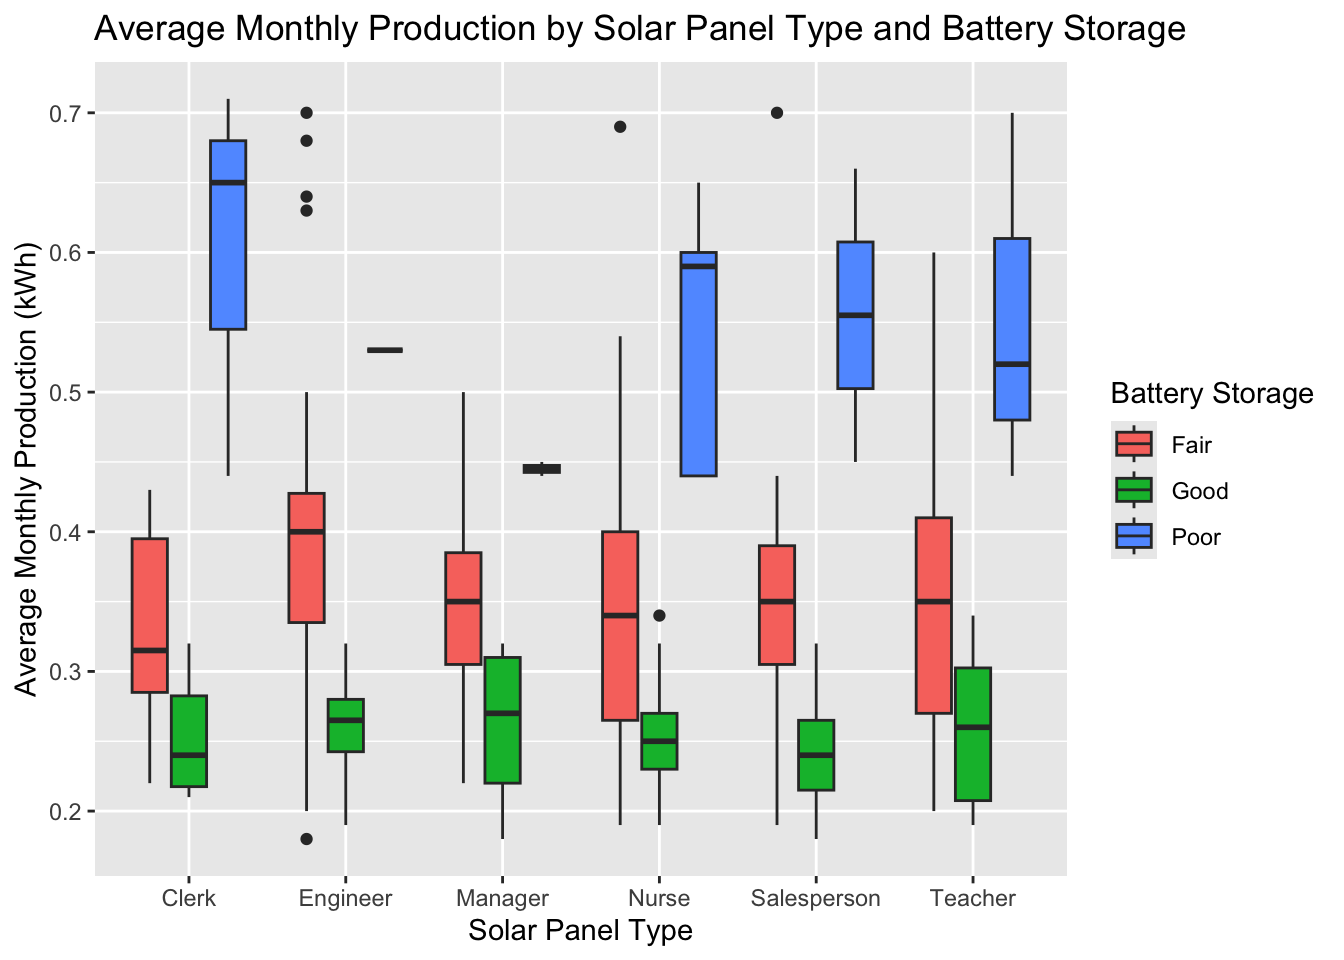
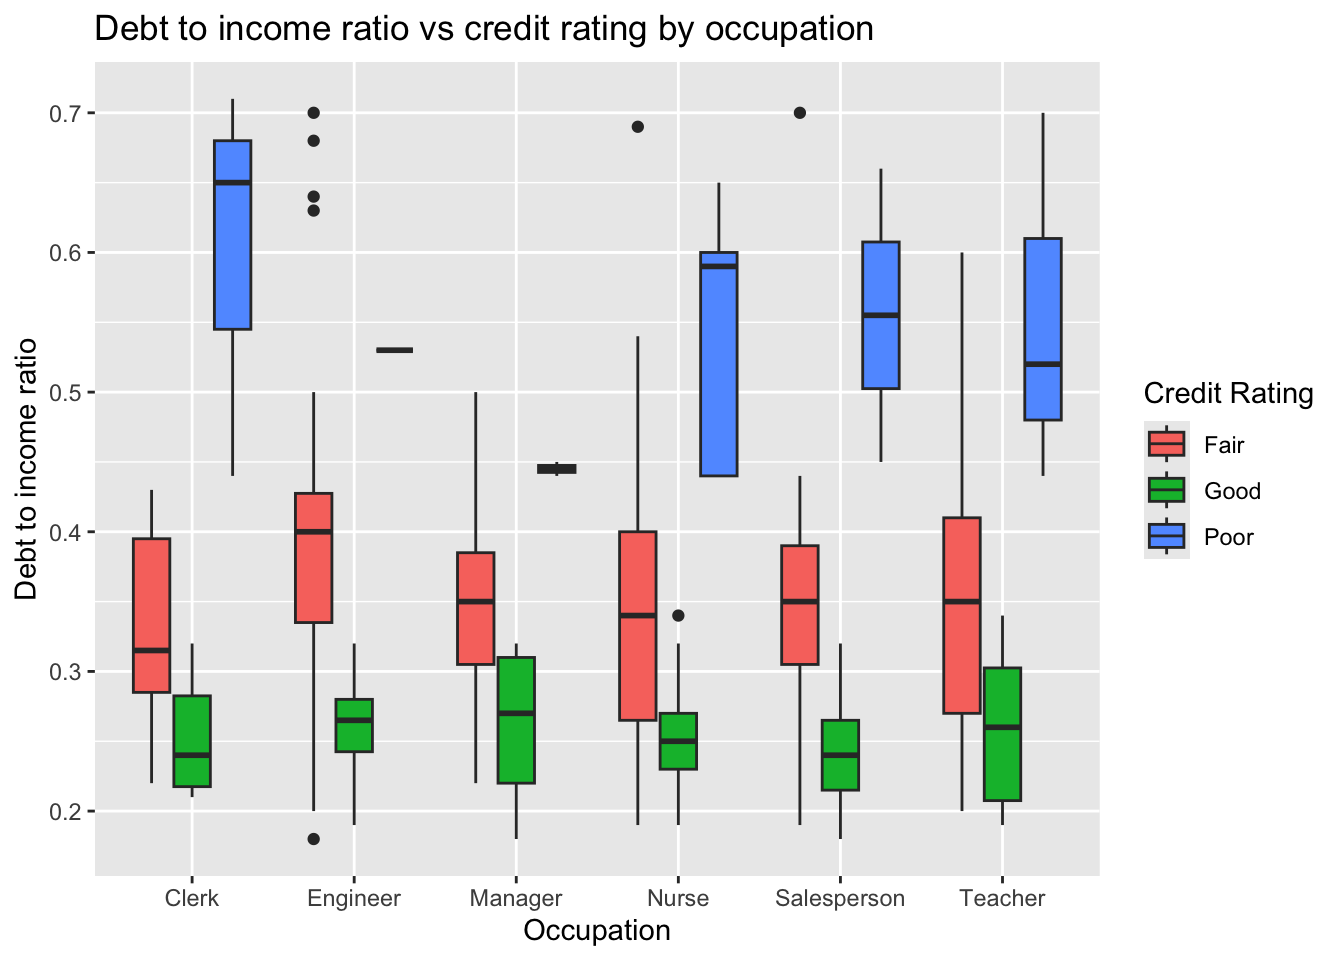
added poisson distr

diff --git a/index.html b/index.html
@@ -509,7 +509,7 @@ Figure&nbsp;1: Occupations Distribution
 <span id="cb7-2"><a href="#cb7-2"></a><span class="fu">ggplot</span>(my_data, <span class="fu">aes</span>(<span class="at">x =</span> debt_to_income_ratio, <span class="at">y =</span> credit_utilization_ratio)) <span class="sc">+</span></span>
 <span id="cb7-3"><a href="#cb7-3"></a>  <span class="fu">geom_point</span>() <span class="sc">+</span></span>
 <span id="cb7-4"><a href="#cb7-4"></a>  <span class="fu">geom_smooth</span>(<span class="at">method =</span> <span class="st">"lm"</span>, <span class="at">col =</span> <span class="st">"red"</span>) <span class="sc">+</span></span>
-<span id="cb7-5"><a href="#cb7-5"></a>  <span class="fu">labs</span>(<span class="at">title =</span> <span class="st">'Debt to Income Ratio  vs. Credit Utilization Ratio'</span>, <span class="at">x =</span> <span class="st">'Credit Utilization Ratio'</span>, <span class="at">y =</span> <span class="st">'Credit Utilization Ratio'</span>)</span></code><button title="Copy to Clipboard" class="code-copy-button"><i class="bi"></i></button></pre></div>
+<span id="cb7-5"><a href="#cb7-5"></a>  <span class="fu">labs</span>(<span class="at">title =</span> <span class="st">'Debt to Income Ratio  vs. Credit Utilization Ratio'</span>, <span class="at">x =</span> <span class="st">'Debt to Income Ratio'</span>, <span class="at">y =</span> <span class="st">'Credit Utilization Ratio'</span>)</span></code><button title="Copy to Clipboard" class="code-copy-button"><i class="bi"></i></button></pre></div>
 </details>
 <div class="cell-output-display">
 <div>
@@ -519,7 +519,7 @@ Figure&nbsp;1: Occupations Distribution
 </div>
 </div>
 </div>
-<p>By inspecting the scatter plot above, we see a weak linear relationship between debt to income ratio and credit utilization ratio. We can also find the correlation coefficient by using the R built in function <code>cor()</code> to examine the relationship between the two variables. For these two variables we find the correlation coefficient to be <code>0.2207823</code>, which supports the weak positive linear relationship that we see visually from the scatter plot. <br> What is being indicated by the red line is a linear regression model showing a general trend. The general trend is that as the debt to income ratio increases, the credit utilization ratio also increases slightly. This suggests that there are other factors that influence an individual’s credit utilization ratio besides their debt to income ratio. Overall, the positive linear correlation provides some information, but it also suggests that further analyses using other variables needs to be done to understand the factors involved.</p>
+<p>By inspecting the scatter plot above, we see a weak linear relationship between debt to income ratio and credit utilization ratio. We can also find the correlation coefficient by using the R built in function <code>cor()</code> to examine the relationship between the two variables. For these two variables we find the correlation coefficient to be 0.2207823, which supports the weak positive linear relationship that we see visually from the scatter plot. <br> What is being indicated by the red line is a linear regression model showing a general trend. The general trend is that as the debt to income ratio increases, the credit utilization ratio also increases slightly. This suggests that there are other factors that influence an individual’s credit utilization ratio besides their debt to income ratio. Overall, the positive linear correlation provides some information, but it also suggests that further analyses using other variables needs to be done to understand the factors involved.</p>
 </section>
 <section id="box-plot-of-debt-to-income-ratio-vs.-credit-utilization-ratio" class="level3" data-number="3.5">
 <h3 data-number="3.5" class="anchored" data-anchor-id="box-plot-of-debt-to-income-ratio-vs.-credit-utilization-ratio"><span class="header-section-number">3.5</span> Box plot of Debt to Income Ratio vs.&nbsp;Credit Utilization Ratio</h3>
@@ -529,7 +529,7 @@ Figure&nbsp;1: Occupations Distribution
 <div class="sourceCode cell-code" id="cb8"><pre class="sourceCode numberSource r number-lines code-with-copy"><code class="sourceCode r"><span id="cb8-1"><a href="#cb8-1"></a><span class="co"># Boxplot of Total Monthly Production by Solar Panel Type and Battery Storage</span></span>
 <span id="cb8-2"><a href="#cb8-2"></a><span class="fu">ggplot</span>(my_data, <span class="fu">aes</span>(<span class="at">x =</span> occupation, <span class="at">y =</span> debt_to_income_ratio, <span class="at">fill =</span> <span class="fu">as.factor</span>(credit_rating))) <span class="sc">+</span></span>
 <span id="cb8-3"><a href="#cb8-3"></a>  <span class="fu">geom_boxplot</span>() <span class="sc">+</span></span>
-<span id="cb8-4"><a href="#cb8-4"></a>  <span class="fu">labs</span>(<span class="at">title =</span> <span class="st">'Average Monthly Production by Solar Panel Type and Battery Storage'</span>, <span class="at">x =</span> <span class="st">'Solar Panel Type'</span>, <span class="at">y =</span> <span class="st">'Average Monthly Production (kWh)'</span>, <span class="at">fill =</span> <span class="st">'Battery Storage'</span>)</span></code><button title="Copy to Clipboard" class="code-copy-button"><i class="bi"></i></button></pre></div>
+<span id="cb8-4"><a href="#cb8-4"></a>  <span class="fu">labs</span>(<span class="at">title =</span> <span class="st">'Debt to income ratio vs credit rating by occupation'</span>, <span class="at">x =</span> <span class="st">'Occupation'</span>, <span class="at">y =</span> <span class="st">'Debt to income ratio'</span>, <span class="at">fill =</span> <span class="st">'Credit Rating'</span>)</span></code><button title="Copy to Clipboard" class="code-copy-button"><i class="bi"></i></button></pre></div>
 </details>
 <div class="cell-output-display">
 <div>
@@ -539,20 +539,66 @@ Figure&nbsp;1: Occupations Distribution
 </div>
 </div>
 </div>
+<p>For <code>fair credit ratings</code>, engineers generally have higher quartiles. This shows that they tend to have a higher debt to income ratio even when maintaining a fair credit rating.</p>
+<p>For <code>good credit ratings</code>, the median is fairly close between all occupations.</p>
+<p>For <code>poor credit ratings</code>, there is an insignificant number of engineers and managers. Clerks have a significanctly higher median debt to income ratio than all the other occupations.</p>
 </section>
 </section>
 <section id="statistical-inference" class="level2" data-number="4">
 <h2 data-number="4" class="anchored" data-anchor-id="statistical-inference"><span class="header-section-number">4</span> Statistical Inference</h2>
-<p>This section is for statistical inference.</p>
-<section id="interval-estimation" class="level3" data-number="4.1">
-<h3 data-number="4.1" class="anchored" data-anchor-id="interval-estimation"><span class="header-section-number">4.1</span> Interval Estimation</h3>
+<section id="estimation" class="level3" data-number="4.1">
+<h3 data-number="4.1" class="anchored" data-anchor-id="estimation"><span class="header-section-number">4.1</span> Estimation</h3>
 <div class="cell">
 <details class="code-fold">
 <summary>Code</summary>
-<div class="sourceCode cell-code" id="cb9"><pre class="sourceCode numberSource r number-lines code-with-copy"><code class="sourceCode r"><span id="cb9-1"><a href="#cb9-1"></a>ci <span class="ot">&lt;-</span> <span class="fu">ci_mean</span>(my_data<span class="sc">$</span>credit_utilization_ratio) </span>
+<div class="sourceCode cell-code" id="cb9"><pre class="sourceCode numberSource r number-lines code-with-copy"><code class="sourceCode r"><span id="cb9-1"><a href="#cb9-1"></a><span class="fu">options</span>(<span class="at">scipen=</span><span class="dv">999</span>) <span class="co"># to see decimals not exponential notation</span></span>
 <span id="cb9-2"><a href="#cb9-2"></a></span>
-<span id="cb9-3"><a href="#cb9-3"></a><span class="co"># Preview</span></span>
-<span id="cb9-4"><a href="#cb9-4"></a>ci</span></code><button title="Copy to Clipboard" class="code-copy-button"><i class="bi"></i></button></pre></div>
+<span id="cb9-3"><a href="#cb9-3"></a><span class="co">#Discrete variable</span></span>
+<span id="cb9-4"><a href="#cb9-4"></a>late_payments <span class="ot">&lt;-</span> my_data<span class="sc">$</span>number_of_late_payments</span>
+<span id="cb9-5"><a href="#cb9-5"></a>payment_freq <span class="ot">&lt;-</span> <span class="fu">c</span>(<span class="dv">20</span>, <span class="dv">57</span>, <span class="dv">48</span>, <span class="dv">23</span>, <span class="dv">33</span>, <span class="dv">13</span>, <span class="dv">19</span>,  <span class="dv">9</span>,  <span class="dv">9</span>,  <span class="dv">5</span>,  <span class="dv">3</span>,  <span class="dv">3</span>,  <span class="dv">1</span>,  <span class="dv">1</span>)</span>
+<span id="cb9-6"><a href="#cb9-6"></a>discrete_late_payments <span class="ot">&lt;-</span> <span class="fu">c</span>(<span class="dv">0</span>, <span class="dv">1</span>, <span class="dv">2</span>, <span class="dv">3</span>, <span class="dv">4</span>, <span class="dv">5</span>, <span class="dv">6</span>, <span class="dv">7</span>, <span class="dv">8</span>, <span class="dv">9</span>, <span class="dv">10</span>, <span class="dv">11</span>, <span class="dv">12</span>, <span class="dv">14</span>)</span>
+<span id="cb9-7"><a href="#cb9-7"></a></span>
+<span id="cb9-8"><a href="#cb9-8"></a><span class="co"># Poison fit</span></span>
+<span id="cb9-9"><a href="#cb9-9"></a>lambda_hat <span class="ot">&lt;-</span> <span class="fu">mean</span>(late_payments)</span>
+<span id="cb9-10"><a href="#cb9-10"></a>pois <span class="ot">&lt;-</span> <span class="fu">dpois</span>(<span class="at">x=</span>discrete_late_payments, <span class="at">lambda =</span> lambda_hat)</span>
+<span id="cb9-11"><a href="#cb9-11"></a>pois[<span class="fu">length</span>(pois)] <span class="ot">&lt;-</span> <span class="dv">1</span> <span class="sc">-</span> <span class="fu">sum</span>(pois[<span class="dv">1</span><span class="sc">:</span><span class="fu">length</span>(pois)<span class="sc">-</span><span class="dv">1</span>])</span>
+<span id="cb9-12"><a href="#cb9-12"></a></span>
+<span id="cb9-13"><a href="#cb9-13"></a>ev_late_payments <span class="ot">&lt;-</span> <span class="fu">round</span>(pois<span class="sc">*</span><span class="fu">nrow</span>(my_data))</span>
+<span id="cb9-14"><a href="#cb9-14"></a>  </span>
+<span id="cb9-15"><a href="#cb9-15"></a>data <span class="ot">&lt;-</span> <span class="fu">data.frame</span>(</span>
+<span id="cb9-16"><a href="#cb9-16"></a>  <span class="at">late_payments =</span> discrete_late_payments,</span>
+<span id="cb9-17"><a href="#cb9-17"></a>  <span class="at">observed =</span> payment_freq,</span>
+<span id="cb9-18"><a href="#cb9-18"></a>  <span class="at">pois =</span> ev_late_payments</span>
+<span id="cb9-19"><a href="#cb9-19"></a>)</span>
+<span id="cb9-20"><a href="#cb9-20"></a></span>
+<span id="cb9-21"><a href="#cb9-21"></a><span class="co">#Data wrangling</span></span>
+<span id="cb9-22"><a href="#cb9-22"></a>data2 <span class="ot">&lt;-</span> data <span class="sc">|&gt;</span></span>
+<span id="cb9-23"><a href="#cb9-23"></a>  <span class="fu">pivot_longer</span>(<span class="at">names_to =</span> <span class="st">"shapes"</span>, <span class="at">values_to=</span><span class="st">"values"</span>, observed<span class="sc">:</span>pois)</span>
+<span id="cb9-24"><a href="#cb9-24"></a></span>
+<span id="cb9-25"><a href="#cb9-25"></a></span>
+<span id="cb9-26"><a href="#cb9-26"></a><span class="co">#plot</span></span>
+<span id="cb9-27"><a href="#cb9-27"></a><span class="fu">ggplot</span>(data2, <span class="fu">aes</span>(<span class="at">x =</span> late_payments, <span class="at">y=</span> values, <span class="at">fill =</span> shapes))<span class="sc">+</span></span>
+<span id="cb9-28"><a href="#cb9-28"></a>  <span class="fu">geom_bar</span>(<span class="at">position=</span><span class="st">"dodge"</span>, <span class="at">stat=</span><span class="st">"identity"</span>)<span class="sc">+</span></span>
+<span id="cb9-29"><a href="#cb9-29"></a>  <span class="fu">labs</span>(<span class="at">title=</span><span class="st">"Plot of poisson distribution"</span>)</span></code><button title="Copy to Clipboard" class="code-copy-button"><i class="bi"></i></button></pre></div>
+</details>
+<div class="cell-output-display">
+<div>
+<figure class="figure">
+<p><img src="index_files/figure-html/unnamed-chunk-7-1.png" class="img-fluid figure-img" width="672"></p>
+</figure>
+</div>
+</div>
+</div>
+</section>
+<section id="interval-estimation" class="level3" data-number="4.2">
+<h3 data-number="4.2" class="anchored" data-anchor-id="interval-estimation"><span class="header-section-number">4.2</span> Interval Estimation</h3>
+<div class="cell">
+<details class="code-fold">
+<summary>Code</summary>
+<div class="sourceCode cell-code" id="cb10"><pre class="sourceCode numberSource r number-lines code-with-copy"><code class="sourceCode r"><span id="cb10-1"><a href="#cb10-1"></a>ci <span class="ot">&lt;-</span> <span class="fu">ci_mean</span>(my_data<span class="sc">$</span>credit_utilization_ratio) </span>
+<span id="cb10-2"><a href="#cb10-2"></a></span>
+<span id="cb10-3"><a href="#cb10-3"></a><span class="co"># Preview</span></span>
+<span id="cb10-4"><a href="#cb10-4"></a>ci</span></code><button title="Copy to Clipboard" class="code-copy-button"><i class="bi"></i></button></pre></div>
 </details>
 <div class="cell-output cell-output-stdout">
 <pre><code>
@@ -566,12 +612,12 @@ Confidence interval:
 </div>
 <p>The 95% confidence interval for credit utilization ratio is approximately [0.3977805,0.4223015]. This interval means the true value of the average credit utilization ratio is within this range. This information is important in determining the range of DTI in the population.</p>
 </section>
-<section id="hypothesis-testing" class="level3" data-number="4.2">
-<h3 data-number="4.2" class="anchored" data-anchor-id="hypothesis-testing"><span class="header-section-number">4.2</span> Hypothesis testing</h3>
+<section id="hypothesis-testing" class="level3" data-number="4.3">
+<h3 data-number="4.3" class="anchored" data-anchor-id="hypothesis-testing"><span class="header-section-number">4.3</span> Hypothesis testing</h3>
 <div class="cell">
 <details class="code-fold">
 <summary>Code</summary>
-<div class="sourceCode cell-code" id="cb11"><pre class="sourceCode numberSource r number-lines code-with-copy"><code class="sourceCode r"><span id="cb11-1"><a href="#cb11-1"></a>mean1 <span class="ot">&lt;-</span> <span class="fu">mean</span>(my_data<span class="sc">$</span>debt_to_income_ratio)</span></code><button title="Copy to Clipboard" class="code-copy-button"><i class="bi"></i></button></pre></div>
+<div class="sourceCode cell-code" id="cb12"><pre class="sourceCode numberSource r number-lines code-with-copy"><code class="sourceCode r"><span id="cb12-1"><a href="#cb12-1"></a>mean1 <span class="ot">&lt;-</span> <span class="fu">mean</span>(my_data<span class="sc">$</span>debt_to_income_ratio)</span></code><button title="Copy to Clipboard" class="code-copy-button"><i class="bi"></i></button></pre></div>
 </details>
 </div>
 <p>Null Hypothesis (H0): The true mean for debt to income ratio is equal to 0.3346311</p>
@@ -579,8 +625,8 @@ Confidence interval:
 <div class="cell">
 <details class="code-fold">
 <summary>Code</summary>
-<div class="sourceCode cell-code" id="cb12"><pre class="sourceCode numberSource r number-lines code-with-copy"><code class="sourceCode r"><span id="cb12-1"><a href="#cb12-1"></a>t_test <span class="ot">=</span> <span class="fu">t.test</span>(<span class="at">x=</span>my_data<span class="sc">$</span>debt_to_income_ratio, <span class="at">mu=</span>mean1, <span class="at">alternative=</span><span class="st">"two.sided"</span>)</span>
-<span id="cb12-2"><a href="#cb12-2"></a>t_test</span></code><button title="Copy to Clipboard" class="code-copy-button"><i class="bi"></i></button></pre></div>
+<div class="sourceCode cell-code" id="cb13"><pre class="sourceCode numberSource r number-lines code-with-copy"><code class="sourceCode r"><span id="cb13-1"><a href="#cb13-1"></a>t_test <span class="ot">=</span> <span class="fu">t.test</span>(<span class="at">x=</span>my_data<span class="sc">$</span>debt_to_income_ratio, <span class="at">mu=</span>mean1, <span class="at">alternative=</span><span class="st">"two.sided"</span>)</span>
+<span id="cb13-2"><a href="#cb13-2"></a>t_test</span></code><button title="Copy to Clipboard" class="code-copy-button"><i class="bi"></i></button></pre></div>
 </details>
 <div class="cell-output cell-output-stdout">
 <pre><code>
@@ -598,50 +644,45 @@ mean of x
 </div>
 <p>The p-value from the t-test is equal to 1, indicating that we fail to reject the null hypothesis. Therefore, the true mean of the population for debt to income ration is 0.3346311.</p>
 </section>
-<section id="goodness-of-fit-test" class="level3" data-number="4.3">
-<h3 data-number="4.3" class="anchored" data-anchor-id="goodness-of-fit-test"><span class="header-section-number">4.3</span> Goodness-of-fit Test</h3>
+<section id="goodness-of-fit-test" class="level3" data-number="4.4">
+<h3 data-number="4.4" class="anchored" data-anchor-id="goodness-of-fit-test"><span class="header-section-number">4.4</span> Goodness-of-fit Test</h3>
 <div class="cell">
 <details class="code-fold">
 <summary>Code</summary>
-<div class="sourceCode cell-code" id="cb14"><pre class="sourceCode numberSource r number-lines code-with-copy"><code class="sourceCode r"><span id="cb14-1"><a href="#cb14-1"></a><span class="fu">hist</span>(my_data<span class="sc">$</span>number_of_late_payments, <span class="at">xlab =</span> <span class="st">"Number of late payments"</span>, <span class="at">main =</span> <span class="st">"Histogram of number of late payments"</span>, <span class="at">col =</span> <span class="st">"#006B34"</span>)</span></code><button title="Copy to Clipboard" class="code-copy-button"><i class="bi"></i></button></pre></div>
+<div class="sourceCode cell-code" id="cb15"><pre class="sourceCode numberSource r number-lines code-with-copy"><code class="sourceCode r"><span id="cb15-1"><a href="#cb15-1"></a><span class="fu">hist</span>(my_data<span class="sc">$</span>number_of_late_payments, <span class="at">xlab =</span> <span class="st">"Number of late payments"</span>, <span class="at">main =</span> <span class="st">"Histogram of number of late payments"</span>, <span class="at">col =</span> <span class="st">"#006B34"</span>)</span></code><button title="Copy to Clipboard" class="code-copy-button"><i class="bi"></i></button></pre></div>
 </details>
 <div class="cell-output-display">
 <div>
 <figure class="figure">
-<p><img src="index_files/figure-html/unnamed-chunk-10-1.png" class="img-fluid figure-img" width="672"></p>
+<p><img src="index_files/figure-html/unnamed-chunk-11-1.png" class="img-fluid figure-img" width="672"></p>
 </figure>
 </div>
-</div>
-</div>
-<div class="cell">
-<details class="code-fold">
-<summary>Code</summary>
-<div class="sourceCode cell-code" id="cb15"><pre class="sourceCode numberSource r number-lines code-with-copy"><code class="sourceCode r"><span id="cb15-1"><a href="#cb15-1"></a>freq <span class="ot">=</span> <span class="fu">table</span>(my_data<span class="sc">$</span>number_of_late_payments)</span>
-<span id="cb15-2"><a href="#cb15-2"></a></span>
-<span id="cb15-3"><a href="#cb15-3"></a><span class="fu">dt</span>(<span class="at">x =</span> freq, <span class="at">df =</span> <span class="fu">length</span>(freq))</span></code><button title="Copy to Clipboard" class="code-copy-button"><i class="bi"></i></button></pre></div>
-</details>
-<div class="cell-output cell-output-stdout">
-<pre><code>
-           0            1            2            3            4            5 
-3.644342e-12 6.870583e-19 8.928344e-18 4.765658e-13 2.343178e-15 1.662411e-09 
-           6            7            8            9           10           11 
-7.653976e-12 2.270882e-07 2.270882e-07 1.803587e-04 9.465921e-03 9.465921e-03 
-          12           14 
-2.335808e-01 2.335808e-01 </code></pre>
 </div>
 </div>
 </section>
 </section>
 <section id="insights" class="level2" data-number="5">
 <h2 data-number="5" class="anchored" data-anchor-id="insights"><span class="header-section-number">5</span> Insights</h2>
-<p>Provide key findings.</p>
+<p>Based on the exploratory data analysis and statistical inference, here are the key insights:</p>
+<ol type="1">
+<li><p><strong>Distribution of Occupations</strong>: The range in occupations, their salaries and skill level allow us to use info we get from analysing this distribution for other occupations not included in the dataset.</p></li>
+<li><p><strong>Occupation creditworthiness</strong>: High earning jobs such as engineers and managers produce very few if any individuals with poor creditworthiness.</p></li>
+<li><p><strong>DTI and credit utilization ratio relationship</strong>: Although there is some relationship between the two rations, DTI is affected by more than the credit utilization ratio.</p></li>
+<li><p><strong>DTI and credit utilization ratio relationship</strong>: From the hypotheses test, we see that there is no significant difference between the average debt to income and the true mean of the population. This serves as a foundation for further research on the distribution, knowing that we are certain about the value of the true mean.</p></li>
+</ol>
 </section>
 <section id="conclusion" class="level2" data-number="6">
 <h2 data-number="6" class="anchored" data-anchor-id="conclusion"><span class="header-section-number">6</span> Conclusion</h2>
-<p>Conclude report.</p>
+<p>This report provides an analysis on various various variables that can affect an individual’s credit score. Through exploratory data analysis, we identified the distributions and relationships between variables. Statistical inference methods were used to draw conclusions about the data. Key insights highlighted the overall trends and relationships within the dataset. This analysis can help inform decisions related to solar power production and the factors that influence it.</p>
+<p>The analyses suggest that a high paying occupation protects an individual from having a poor credit rating. It has also been confirmed that the true average for debt to income ratio is 0.3346311.</p>
 <section id="recommendations" class="level3" data-number="6.1">
 <h3 data-number="6.1" class="anchored" data-anchor-id="recommendations"><span class="header-section-number">6.1</span> Recommendations</h3>
-<p>What would you recommend based on your findings?</p>
+<p>Based on the insights gained from this analysis, the following recommendations can be made:</p>
+<ol type="1">
+<li><p><strong>Targeted Financial Literacy Programs</strong>: Clerks have a high median debt to income ratio. It would be helpful to create tailor made education products for them in order to boost their credit health.</p></li>
+<li><p><strong>Address Variability in Sunlight</strong>:</p></li>
+<li><p><strong>Optimize Daily Production</strong>:</p></li>
+</ol>
 </section>
 </section>
 
